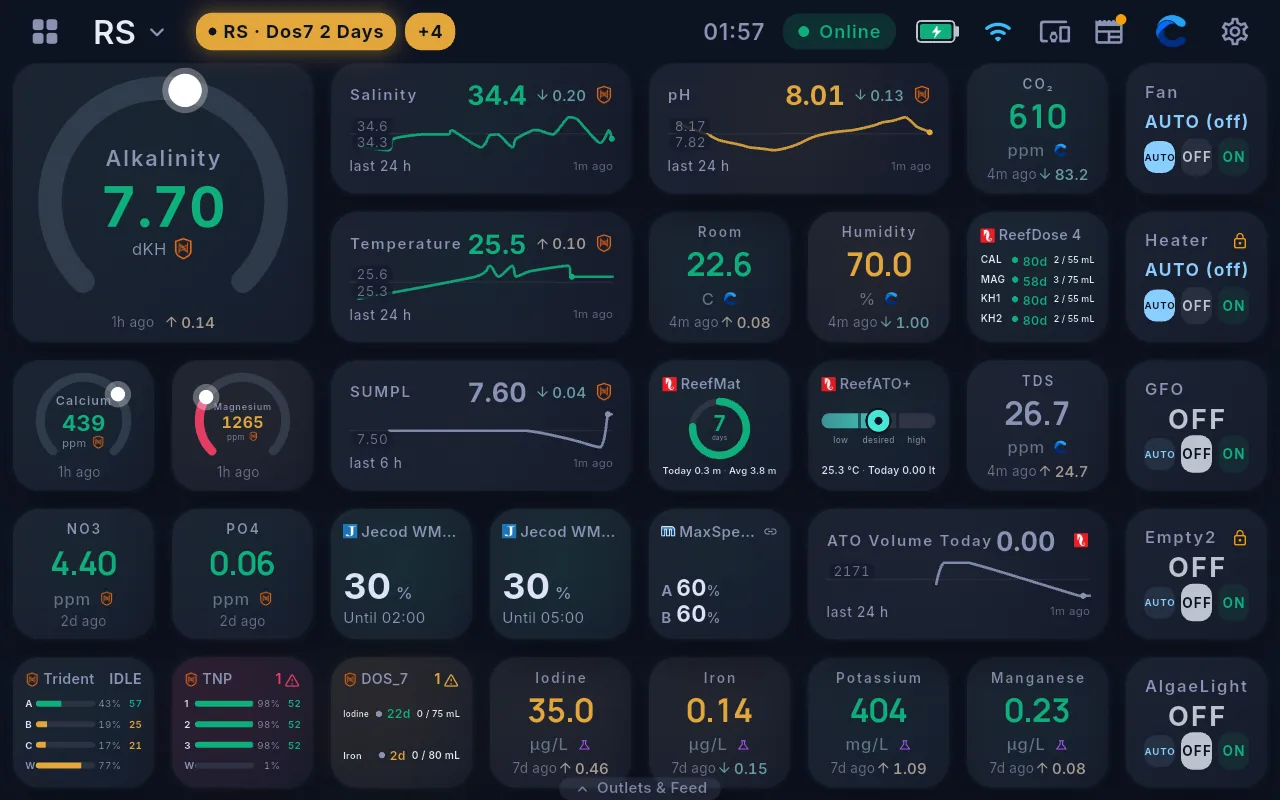
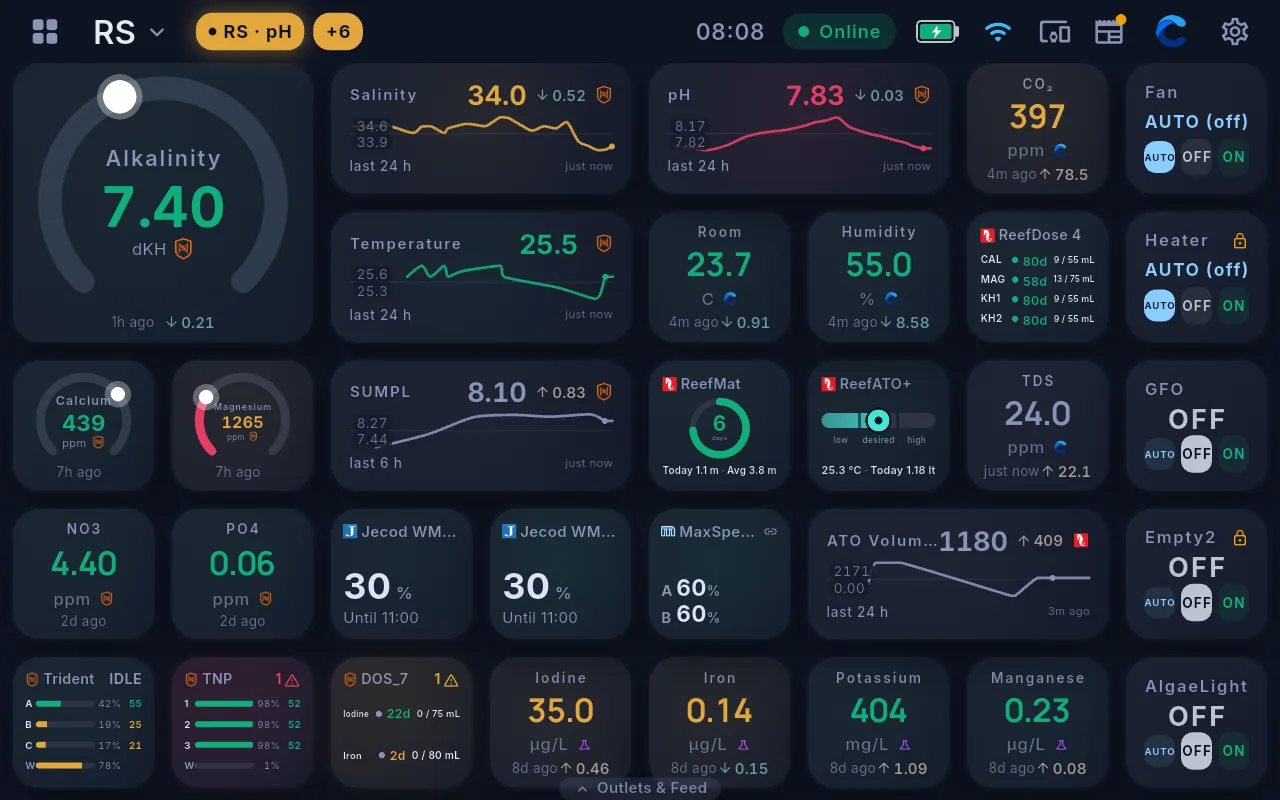
Screenshots on 20 of 34 pages, and four more facts corrected by capturing them
Driving the app rather than reading it keeps finding errors. This round:

  Reef Buddy       documented as "a score out of 100". It shows TWO — a
                   Stability score out of 100 and a Data percentage saying how
                   complete the evidence behind it is. A low Data score is the
                   more important of the pair, and the page now says so.
                   Insights also carry a category and a cadence, and a chip
                   showing tank type and profile completeness.
  metric detail    has its OWN range set — 1h/6h/12h/24h/3d/7d — not the
                   widget config's 1h/6h/24h/7d/30d/1y, plus a source-filter
                   chip row (All / Apex / Cora / Red Sea / Manual) and a dose
                   calculator entry point. None of that was documented.
  Alert Center     is a named screen with Active/Rules tabs, severity chips,
                   trigger-kind chips, and per-alert "View rule" and "Explain
                   this alert" actions. The page described none of it.
  Maintenance      shows a Compliance percentage and an overdue count.
  Livestock        shows an inventory summary and a 90-day loss count, groups
                   by type, and has a Show Lost toggle.

19 new screenshots, all captured from the emulator and cropped where needed:
the Settings list is cropped below the account card (the first crop, computed
rather than measured, still showed the email — caught by looking at it), and
[…]

diff --git a/help/mobile-reef-buddy.html b/help/mobile-reef-buddy.html
@@ -95,22 +95,27 @@
   <main class="hmain" id="main">
     <article class="doc">
       <h1>Reef Buddy</h1>
-      <nav class="toc" aria-label="On this page"><p>On this page</p><ul><li><a href="#what-is-in-a-briefing">What is in a briefing</a></li><li><a href="#when-it-arrives">When it arrives</a></li><li><a href="#reading-the-score">Reading the score</a></li><li><a href="#dismissing-the-card">Dismissing the card</a></li><li><a href="#turning-it-off">Turning it off</a></li><li><a href="#telling-it-when-its-wrong">Telling it when it&#x27;s wrong</a></li></ul></nav>
+      <nav class="toc" aria-label="On this page"><p>On this page</p><ul><li><a href="#what-is-in-a-briefing">What is in a briefing</a></li><li><a href="#when-it-arrives">When it arrives</a></li><li><a href="#reading-the-scores">Reading the scores</a></li><li><a href="#dismissing-the-card">Dismissing the card</a></li><li><a href="#turning-it-off">Turning it off</a></li><li><a href="#telling-it-when-its-wrong">Telling it when it&#x27;s wrong</a></li></ul></nav>
 <p>Reef Buddy is a short daily read on your tank. It arrives each morning, tells you what changed, and flags anything worth your attention before you notice it yourself.</p>
 <p>It appears as a card at the top of your dashboard, and as one notification.</p>
+<figure class="shot phone"><img src="img/mobile-reefbuddy.webp" alt="A Reef Buddy briefing" width="620" height="1323" loading="lazy" decoding="async"><figcaption>Stability and Data scores, a summary, then the insights behind them.</figcaption></figure>
 <h2 id="what-is-in-a-briefing">What is in a briefing</h2>
-<p><strong>A headline</strong> — the single most useful sentence about your tank today.</p>
-<p><strong>A score out of 100</strong> — an overall read on how the system is doing. Treat it as a trend rather than a grade: a steady 88 is a healthy tank, and a drop from 94 to 78 is worth reading about.</p>
-<p><strong>Insights</strong> — the specific observations behind the headline. A parameter drifting, two sources disagreeing, something that has not been tested in a while, a dose that stopped matching consumption.</p>
-<p>Tap the card to read the whole thing.</p>
+<p><strong>A headline</strong> — a one-line summary of the tank today.</p>
+<p><strong>Two scores:</strong></p>
+<div class="tw"><table><thead><tr><th>Score</th><th>Means</th></tr></thead><tbody><tr><td><strong>Stability</strong></td><td>Out of 100. How steady the tank has been against your targets</td></tr><tr><td><strong>Data</strong></td><td>A percentage. How complete the data behind the assessment is</td></tr></tbody></table></div>
+<p>A low Data score means the assessment rests on fewer readings than it would like, and is worth more than the Stability number next to it.</p>
+<p><strong>A summary</strong> — a short paragraph explaining the headline, referencing your actual values and ranges.</p>
+<p><strong>Insights</strong> — the individual findings. Each carries a category (such as <em>Water Chemistry</em>), a cadence (such as <em>Daily</em>), and expands for detail. A chip at the top of the section shows the tank type and how complete its profile is, because both affect what Cora can conclude.</p>
+<p>Insights are filtered before they reach you: each appears only when it is biologically plausible, statistically persistent, and not already obvious from a single chart.</p>
+<p>Tap the card on the dashboard to open the full briefing.</p>
 <h2 id="when-it-arrives">When it arrives</h2>
 <p>Once a day, in the early morning, per tank.</p>
 <p>On a day when nothing needs your attention, Reef Buddy usually stays quiet rather than pushing to say everything is fine. <strong>If it pushed, something changed.</strong></p>
 <aside class="cal cal-note"><p class="cal-t">One tank, one briefing</p><p>Each tank gets its own briefing. If you run three systems you get three, and each is about that system alone.</p></aside>
-<h2 id="reading-the-score">Reading the score</h2>
-<p>The score is built from where your parameters sit against your ranges, how stable they have been, how complete your data is, and what the insights found.</p>
-<p>It falls when parameters drift, when readings go stale, or when something is flagged. It is not a competition — a mature tank running deliberately lean can sit lower than a beginner's and be in better shape. Watch your own line, not anyone else's.</p>
-<aside class="cal cal-tip"><p class="cal-t">A falling score with no obvious cause is usually staleness</p><p>The most common reason a good tank's score slides is that nothing has been tested for a week. Log a few readings and it recovers.</p></aside>
+<h2 id="reading-the-scores">Reading the scores</h2>
+<p><strong>Stability</strong> reflects where your parameters sit against your own targets and how steady they have been. It is a trend to watch over time rather than a grade — compare it against your own previous scores, not against another tank.</p>
+<p><strong>Data</strong> reflects how much recent information the assessment had. It falls when readings go stale.</p>
+<aside class="cal cal-note"><p class="cal-t">A falling Data score usually means readings have gone stale</p><p>If nothing has been tested for a week, the Data score drops and the Stability score becomes less reliable. Log readings to restore both.</p></aside>
 <h2 id="dismissing-the-card">Dismissing the card</h2>
 <p>The <strong>×</strong> clears today's card from the dashboard. Tomorrow's still arrives. Past briefings stay available from the <strong>Intelligence</strong> tab.</p>
 <h2 id="turning-it-off">Turning it off</h2>

diff --git a/help/mobile-metric-detail.html b/help/mobile-metric-detail.html
@@ -95,20 +95,21 @@
   <main class="hmain" id="main">
     <article class="doc">
       <h1>Looking into a parameter</h1>
-      <nav class="toc" aria-label="On this page"><p>On this page</p><ul><li><a href="#what-you-get">What you get</a></li><li><a href="#reading-the-chart">Reading the chart</a></li><li><a href="#when-sources-disagree">When sources disagree</a></li><li><a href="#choosing-which-source-a-widget-trusts">Choosing which source a widget trusts</a></li><li><a href="#logging-a-reading-by-hand">Logging a reading by hand</a></li></ul></nav>
+      <nav class="toc" aria-label="On this page"><p>On this page</p><ul><li><a href="#what-you-get">What you get</a></li><li><a href="#choosing-a-range">Choosing a range</a></li><li><a href="#comparing-sources">Comparing sources</a></li><li><a href="#choosing-which-source-a-widget-trusts">Choosing which source a widget trusts</a></li><li><a href="#logging-a-reading-by-hand">Logging a reading by hand</a></li></ul></nav>
 <p>A widget shows you a number. Tapping it shows you the story behind the number.</p>
 <h2 id="what-you-get">What you get</h2>
-<p><strong>The full history</strong> as a chart, over a window you choose — an hour up to a year.</p>
-<p><strong>Every source</strong> that reports this parameter, and what each one currently says. This is where two sources disagreeing becomes visible: your probe and your test kit side by side, with their own timestamps.</p>
+<p><strong>A history chart</strong>, with its own range selector: <strong>1h · 6h · 12h · 24h · 3d · 7d</strong> and longer.</p>
+<p><strong>A source filter.</strong> Below the ranges is a row of chips — <strong>All</strong>, plus one per source reporting this parameter, such as <em>Apex</em>, <em>Cora</em>, <em>Red Sea</em> or <em>Manual</em>. Select one to see only its readings. This is how you compare a probe against a test kit directly: switch between them on the same chart.</p>
+<p><strong>A dose calculator link</strong>, for parameters you dose. It uses the tank volume from your <a href="/help/mobile-tank-profile">tank profile</a> and the strengths from <a href="/help/mobile-dosing">Dosing</a>.</p>
 <p><strong>The thresholds</strong> currently applied, and a way to change them.</p>
-<p><strong>Log a reading</strong> by hand, without going anywhere else.</p>
-<h2 id="reading-the-chart">Reading the chart</h2>
-<p>The window buttons change the span. The right window depends on the rhythm of the parameter:</p>
+<p><strong>Log a reading</strong> by hand.</p>
+<h2 id="choosing-a-range">Choosing a range</h2>
+<p>The right range depends on the rhythm of the parameter:</p>
 <div class="tw"><table><thead><tr><th>Parameter</th><th>Useful window</th></tr></thead><tbody><tr><td>pH</td><td>24 hours — it swings on a daily cycle</td></tr><tr><td>Temperature</td><td>24 hours or 7 days</td></tr><tr><td>Alkalinity</td><td>7 or 30 days</td></tr><tr><td>Trace elements</td><td>30 days or a year</td></tr></tbody></table></div>
 <aside class="cal cal-note"><p class="cal-t">Check the reading age on a flat trend</p><p>A line that has not moved may indicate a stable parameter or a source that has stopped reporting. The age shown beside the value distinguishes the two.</p></aside>
-<h2 id="when-sources-disagree">When sources disagree</h2>
-<p>If more than one thing reports the same parameter and they do not agree, that is a real fact about your system, and Cora shows both rather than averaging them or silently preferring one.</p>
-<p>Usually the probe needs calibrating. Sometimes the test kit is old. An <strong><a href="/help/mobile-icp-health">ICP result</a></strong> is the tiebreaker.</p>
+<h2 id="comparing-sources">Comparing sources</h2>
+<p>When more than one source reports a parameter, Cora keeps them separate rather than averaging them. Use the source chips to view each in turn.</p>
+<p>A persistent offset between a probe and a hand-logged test usually indicates the probe needs calibrating. An <a href="/help/mobile-icp-health">ICP result</a> provides an independent reference.</p>
 <h2 id="choosing-which-source-a-widget-trusts">Choosing which source a widget trusts</h2>
 <p>If you want a widget to follow one particular source, set that in the widget's settings — see <strong><a href="/help/mobile-dashboard-editing">Editing your dashboard</a></strong>.</p>
 <h2 id="logging-a-reading-by-hand">Logging a reading by hand</h2>

diff --git a/help/mobile-alerts.html b/help/mobile-alerts.html
@@ -95,8 +95,16 @@
   <main class="hmain" id="main">
     <article class="doc">
       <h1>Alerts and thresholds</h1>
-      <nav class="toc" aria-label="On this page"><p>On this page</p><ul><li><a href="#setting-a-range">Setting a range</a></li><li><a href="#what-triggers-an-alert">What triggers an alert</a></li><li><a href="#where-alerts-appear">Where alerts appear</a></li><li><a href="#choosing-what-reaches-you">Choosing what reaches you</a></li><li><a href="#clearing-an-alert">Clearing an alert</a></li><li><a href="#disabling-alerts-for-a-parameter">Disabling alerts for a parameter</a></li></ul></nav>
-<p>An alert is Cora telling you a reading left the range you set for it. You decide the ranges and you decide what reaches your phone.</p>
+      <nav class="toc" aria-label="On this page"><p>On this page</p><ul><li><a href="#the-alert-center">The Alert Center</a></li><li><a href="#setting-a-range">Setting a range</a></li><li><a href="#what-triggers-an-alert">What triggers an alert</a></li><li><a href="#where-alerts-appear">Where alerts appear</a></li><li><a href="#choosing-what-reaches-you">Choosing what reaches you</a></li><li><a href="#clearing-an-alert">Clearing an alert</a></li><li><a href="#disabling-alerts-for-a-parameter">Disabling alerts for a parameter</a></li></ul></nav>
+<p>An alert is raised when a reading leaves the range you set for it. You set the ranges, and you control which alerts reach your phone.</p>
+<p>Open the <strong>Alert Center</strong> from the shortcut row at the bottom of the dashboard.</p>
+<figure class="shot phone"><img src="img/mobile-alerts.webp" alt="The Alert Center" width="620" height="1323" loading="lazy" decoding="async"><figcaption>Active alerts, each with its severity, what triggered it, and when.</figcaption></figure>
+<h2 id="the-alert-center">The Alert Center</h2>
+<p>Two tabs:</p>
+<ul><li><strong>Active</strong> — alerts currently raised, with a count badge</li><li><strong>Rules</strong> — the thresholds and rate-of-change rules that produce them</li></ul>
+<p>Each active alert shows the parameter and tank, the reading that triggered it, a plain explanation, a severity chip, the kind of rule that fired (<strong>Threshold</strong> or <strong>Rate of Change</strong>), and the time it fired.</p>
+<p>Two actions on each:</p>
+<ul><li><strong>View rule</strong> — opens the rule that raised it, so you can adjust the range</li><li><strong>Explain this alert</strong> — asks the Assistant to interpret it against your tank's history</li></ul>
 <h2 id="setting-a-range">Setting a range</h2>
 <p>Every parameter has a target range. Defaults come from your tank type and age when you set the tank up, which is usually a reasonable place to start.</p>
 <p>To change one: tap the widget, then <strong>Thresholds</strong>. Or set them all in one place under <strong>Settings → Tanks → [your tank] → Thresholds</strong>.</p>

diff --git a/help/mobile-livestock.html b/help/mobile-livestock.html
@@ -95,8 +95,14 @@
   <main class="hmain" id="main">
     <article class="doc">
       <h1>Livestock</h1>
-      <nav class="toc" aria-label="On this page"><p>On this page</p><ul><li><a href="#adding-something">Adding something</a></li><li><a href="#what-happened-to-it">What happened to it</a></li><li><a href="#livestock-and-the-rest-of-cora">Livestock and the rest of Cora</a></li></ul></nav>
-<p>Livestock records what the tank holds — corals, fish and invertebrates — together with when each item was added and its current status.</p>
+      <nav class="toc" aria-label="On this page"><p>On this page</p><ul><li><a href="#the-summary">The summary</a></li><li><a href="#adding-something">Adding something</a></li><li><a href="#what-happened-to-it">What happened to it</a></li><li><a href="#livestock-and-the-rest-of-cora">Livestock and the rest of Cora</a></li></ul></nav>
+<p>Livestock records what the tank holds — corals, fish and invertebrates — together with when each item was added and its current status. Open it from the shortcut row at the bottom of the dashboard.</p>
+<figure class="shot phone"><img src="img/mobile-livestock.webp" alt="The livestock inventory" width="620" height="1323" loading="lazy" decoding="async"><figcaption>Inventory summary and recent losses, with entries grouped by type.</figcaption></figure>
+<h2 id="the-summary">The summary</h2>
+<p>At the top:</p>
+<ul><li><strong>Inventory Summary</strong> — totals by broad category, such as corals, fish and inverts</li><li><strong>Losses</strong> — how many entries have been marked lost in the last 90 days</li></ul>
+<p>Entries are grouped by type — SPS coral, LPS coral, soft coral, fish and so on — each showing its quantity and the date it was added.</p>
+<p><strong>Show Lost</strong> in the top bar includes items no longer in the tank.</p>
 <h2 id="adding-something">Adding something</h2>
 <p>Each entry takes:</p>
 <ul><li><strong>Name</strong> — what you call it</li><li><strong>Type</strong> — SPS coral, LPS coral, soft coral, fish, invertebrate, anemone, or other</li><li><strong>Species</strong> — optional, if you know it</li><li><strong>Quantity</strong> — for a group, like a shoal or a frag pack</li><li><strong>Date added</strong> — defaults to today</li><li><strong>Notes</strong> — supplier, placement, cost, or any other detail you want to keep</li></ul>

diff --git a/help/mobile-maintenance.html b/help/mobile-maintenance.html
@@ -95,8 +95,13 @@
   <main class="hmain" id="main">
     <article class="doc">
       <h1>Maintenance</h1>
-      <nav class="toc" aria-label="On this page"><p>On this page</p><ul><li><a href="#adding-a-task">Adding a task</a></li><li><a href="#reminders">Reminders</a></li><li><a href="#marking-a-task-done">Marking a task done</a></li><li><a href="#snoozing">Snoozing</a></li><li><a href="#pausing-a-task">Pausing a task</a></li><li><a href="#maintenance-and-the-journal">Maintenance and the journal</a></li></ul></nav>
-<p>Maintenance is the list of jobs your tank needs on a rhythm, and the reminders that stop you forgetting them.</p>
+      <nav class="toc" aria-label="On this page"><p>On this page</p><ul><li><a href="#the-summary">The summary</a></li><li><a href="#adding-a-task">Adding a task</a></li><li><a href="#reminders">Reminders</a></li><li><a href="#marking-a-task-done">Marking a task done</a></li><li><a href="#snoozing">Snoozing</a></li><li><a href="#pausing-a-task">Pausing a task</a></li><li><a href="#maintenance-and-the-journal">Maintenance and the journal</a></li></ul></nav>
+<p>Maintenance holds the recurring jobs a tank needs and the reminders for them. Open it from the shortcut row at the bottom of the dashboard.</p>
+<figure class="shot phone"><img src="img/mobile-maintenance.webp" alt="The maintenance list" width="620" height="1323" loading="lazy" decoding="async"><figcaption>Compliance, overdue count, and each task with its last completion and next due date.</figcaption></figure>
+<h2 id="the-summary">The summary</h2>
+<p>At the top:</p>
+<ul><li><strong>Maintenance Compliance</strong> — the proportion of tasks currently done on schedule</li><li><strong>Overdue count</strong> — how many tasks have passed their due date</li></ul>
+<p>Each task in the list is colour-coded by urgency: overdue, due soon, or scheduled. Every task shows when it was last completed and when it is next due.</p>
 <h2 id="adding-a-task">Adding a task</h2>
 <p>Give it a name, an icon, and how often it needs doing in days. Cora works out when it is next due.</p>
 <p>Typical tasks:</p>

diff --git a/help/mobile-icp-health.html b/help/mobile-icp-health.html
@@ -97,10 +97,11 @@
       <h1>ICP and health reports</h1>
       <nav class="toc" aria-label="On this page"><p>On this page</p><ul><li><a href="#uploading-an-icp-test">Uploading an ICP test</a></li><li><a href="#what-you-get-back">What you get back</a></li><li><a href="#health-reports">Health reports</a></li><li><a href="#icp-against-your-probes">ICP against your probes</a></li><li><a href="#your-allowance">Your allowance</a></li><li><a href="#where-reports-live">Where reports live</a></li></ul></nav>
 <p>The <strong>Intelligence</strong> tab is your lab work and your long view.</p>
-<figure class="shot phone"><img src="img/mobile-intelligence.webp" alt="The Intelligence tab" width="620" height="1348" loading="lazy" decoding="async"><figcaption>Upload ICP, run a health report, and see what moved since last time.</figcaption></figure>
+<figure class="shot phone"><img src="img/mobile-intelligence.webp" alt="The Intelligence tab" width="620" height="1323" loading="lazy" decoding="async"><figcaption>Upload ICP, run a health report, and see what moved since the last one.</figcaption></figure>
 <h2 id="uploading-an-icp-test">Uploading an ICP test</h2>
 <p>Tap <strong>Upload ICP</strong>, pick your tank, and add the result from your lab. Cora reads the report, records every element, and lines it up against your previous tests.</p>
 <p>You do not have to type anything in. Cora handles the common lab formats.</p>
+<figure class="shot phone"><img src="img/mobile-icp-report.webp" alt="An ICP report" width="620" height="1323" loading="lazy" decoding="async"><figcaption>Each report carries a score and a summary written for your tank.</figcaption></figure>
 <h2 id="what-you-get-back">What you get back</h2>
 <p><strong>A score</strong> for the report, and a plain-language summary of what it means for your system specifically — your tank type, your age, your livestock.</p>
 <p><strong>Every element tracked</strong> — not just the headline parameters. Trace elements, contaminants, the lot.</p>

diff --git a/help/mobile-automation.html b/help/mobile-automation.html
@@ -98,6 +98,8 @@
       <nav class="toc" aria-label="On this page"><p>On this page</p><ul><li><a href="#the-shape-of-a-rule">The shape of a rule</a></li><li><a href="#what-can-wake-a-rule">What can wake a rule</a></li><li><a href="#conditions">Conditions</a></li><li><a href="#what-a-rule-can-do">What a rule can do</a></li><li><a href="#scenes">Scenes</a></li><li><a href="#turning-a-rule-off">Turning a rule off</a></li><li><a href="#seeing-what-a-rule-did">Seeing what a rule did</a></li></ul></nav>
 <p>An automation is a rule Cora runs for you: <em>when this happens, check that, then do this.</em> Scenes group several actions into one thing you can run or schedule.</p>
 <p><strong>Settings → Automation.</strong></p>
+<figure class="shot phone"><img src="img/mobile-automation.webp" alt="The automation list" width="620" height="1323" loading="lazy" decoding="async"><figcaption>Automations and Scenes are separate tabs. Each rule has an enable switch.</figcaption></figure>
+<p>The screen has two tabs — <strong>Automations</strong> and <strong>Scenes</strong> — and a <strong>New automation</strong> button. Each rule shows a one-line summary of what it does, an enable switch, and a menu for editing or deleting it. A rule that has not run yet is marked as such.</p>
 <aside class="cal cal-warning"><p class="cal-t">These act on real equipment</p><p>A rule that switches a pump switches it whether or not you are watching. Build one at a time and check each does what you expect before adding the next.</p></aside>
 <h2 id="the-shape-of-a-rule">The shape of a rule</h2>
 <p>Every rule is the same three parts:</p>

diff --git a/help/mobile-settings.html b/help/mobile-settings.html
@@ -97,7 +97,7 @@
       <h1>Settings</h1>
       <nav class="toc" aria-label="On this page"><p>On this page</p><ul><li><a href="#your-account">Your account</a></li><li><a href="#tanks">Tanks</a></li><li><a href="#dosing-products">Dosing Products</a></li><li><a href="#assistant-ai">Assistant &amp; AI</a></li><li><a href="#notifications">Notifications</a></li><li><a href="#automation">Automation</a></li><li><a href="#activity">Activity</a></li><li><a href="#about">About</a></li><li><a href="#getting-help">Getting help</a></li></ul></nav>
 <p>Everything you can configure, in the order it appears.</p>
-<figure class="shot"><img src="img/mobile-settings.webp" alt="The Settings tab" width="760" height="819" loading="lazy" decoding="async"><figcaption>Account at the top, then one row per area.</figcaption></figure>
+<figure class="shot phone"><img src="img/mobile-settings.webp" alt="The Settings tab" width="620" height="975" loading="lazy" decoding="async"><figcaption>One row per area. Your account card sits above these.</figcaption></figure>
 <h2 id="your-account">Your account</h2>
 <p>The card at the top shows who you are signed in as and which plan you are on. Tap it for:</p>
 <ul><li><strong>Display name</strong> — what you are called in the app</li><li><strong>Plan and subscription</strong> — what you have, what it includes, and how to change it</li><li><strong>Sign out</strong></li><li><strong>Delete account</strong> — permanent, and it takes your data with it</li></ul>

diff --git a/help/mobile-devices.html b/help/mobile-devices.html
@@ -97,7 +97,7 @@
       <h1>Adding, editing and removing devices</h1>
       <nav class="toc" aria-label="On this page"><p>On this page</p><ul><li><a href="#adding-a-device">Adding a device</a></li><li><a href="#assigning-a-device-to-a-tank">Assigning a device to a tank</a></li><li><a href="#renaming">Renaming</a></li><li><a href="#checking-whether-a-device-is-healthy">Checking whether a device is healthy</a></li><li><a href="#removing-a-device">Removing a device</a></li></ul></nav>
 <p>The <strong>Devices</strong> tab is everything you have connected, grouped by brand. Each group collapses so a reef room full of equipment stays readable.</p>
-<figure class="shot"><img src="img/mobile-devices.webp" alt="The Devices tab" width="1100" height="493" loading="lazy" decoding="async"><figcaption>Equipment grouped by brand, each group collapsible.</figcaption></figure>
+<figure class="shot"><img src="img/mobile-devices.webp" alt="The Devices tab" width="1100" height="493" loading="lazy" decoding="async"><figcaption>Equipment is grouped by brand. Each group collapses.</figcaption></figure>
 <h2 id="adding-a-device">Adding a device</h2>
 <p>Tap <strong>Add Device</strong> at the bottom of the list and pick what you are adding. What happens next depends on the brand — some connect over your network, some through the manufacturer's account. <strong><a href="/help/mobile-connections">Connecting your gear</a></strong> covers each one.</p>
 <p>Two shortcuts sit under the button:</p>

diff --git a/help/mobile-dashboard.html b/help/mobile-dashboard.html
@@ -115,6 +115,7 @@
 <div class="tw"><table><thead><tr><th>Colour</th><th>Meaning</th></tr></thead><tbody><tr><td>Green</td><td>Inside the range you set for this parameter</td></tr><tr><td>Amber</td><td>Drifting — outside your target but not dangerous</td></tr><tr><td>Red</td><td>Outside the range, and worth acting on</td></tr><tr><td>Grey</td><td>No recent reading, or no range set</td></tr></tbody></table></div>
 <p>A widget outlined in amber or red is one Cora wants you to look at. The outline is on the widget, not just the number, so you can spot it while scrolling.</p>
 <h2 id="below-the-widgets">Below the widgets</h2>
+<figure class="shot"><img src="img/mobile-dashboard-foot.webp" alt="The foot of the dashboard" width="1000" height="426" loading="lazy" decoding="async"><figcaption>Edit dashboard, Log Parameters, and shortcuts to the four record areas.</figcaption></figure>
 <p>At the bottom of the dashboard:</p>
 <ul><li><strong>Edit dashboard</strong> — opens the <a href="/help/mobile-dashboard-editing">dashboard editor</a></li><li><strong>Log Parameters</strong> — enter test-kit readings by hand</li><li><strong>Journal · Alerts · Maintenance · Livestock</strong> — shortcuts to those areas for this tank</li></ul>
 <p>A line above them shows when the dashboard last updated and which sources it drew on.</p>

diff --git a/help/mobile-dosing.html b/help/mobile-dosing.html
@@ -98,6 +98,7 @@
       <nav class="toc" aria-label="On this page"><p>On this page</p><ul><li><a href="#the-product-library">The product library</a></li><li><a href="#adding-your-own">Adding your own</a></li><li><a href="#the-dose-calculator">The dose calculator</a></li><li><a href="#consumption">Consumption</a></li><li><a href="#dosing-equipment">Dosing equipment</a></li></ul></nav>
 <p>Cora can only do dosing maths if it knows how strong your products are. Set that up once and everything downstream — the calculator, consumption tracking, and what Cora tells you about your dosing — becomes real numbers rather than guesses.</p>
 <p><strong>Settings → Dosing Products.</strong></p>
+<figure class="shot phone"><img src="img/mobile-dosing.webp" alt="Dosing products" width="620" height="1323" loading="lazy" decoding="async"><figcaption>Products carry the strength Cora uses for dose and consumption calculations.</figcaption></figure>
 <h2 id="the-product-library">The product library</h2>
 <p>Cora ships with a library of common products. Search for yours and add it — the strength comes with it.</p>
 <p>Each product records how much it raises a parameter per millilitre (or per gram, for dry products) in a fixed volume of water. That is the number that turns "5 ml" into "+0.2 dKH in your tank".</p>

diff --git a/help/mobile-assistant.html b/help/mobile-assistant.html
@@ -114,6 +114,7 @@
 <p>Anything that affects your equipment is <strong>confirmed before it happens</strong>. You will be shown exactly what is about to change and asked to approve it. Cora does not act on an ambiguous instruction.</p>
 <aside class="cal cal-warning"><p class="cal-t">Advisory, not authority</p><p>Cora's advice is exactly that. Verify anything important with your own testing, and treat big changes the way you would treat advice from anyone else — sanity-check it before you act. The line under the message box says the same thing, and it means it.</p></aside>
 <h2 id="memory">Memory</h2>
+<figure class="shot phone"><img src="img/mobile-assistant-settings.webp" alt="Assistant settings" width="620" height="1323" loading="lazy" decoding="async"><figcaption>Consent, memory, voice and usage limits, under Settings.</figcaption></figure>
 <p>Cora remembers things about your tank between conversations — that you dose two-part, that your frag tank shares a sump, that you are trying to bring nutrients up. This is what stops you re-explaining your system every time.</p>
 <p>You can see and clear what it remembers under <strong>Settings → Assistant &amp; AI → Memory</strong>.</p>
 <h2 id="usage">Usage</h2>
